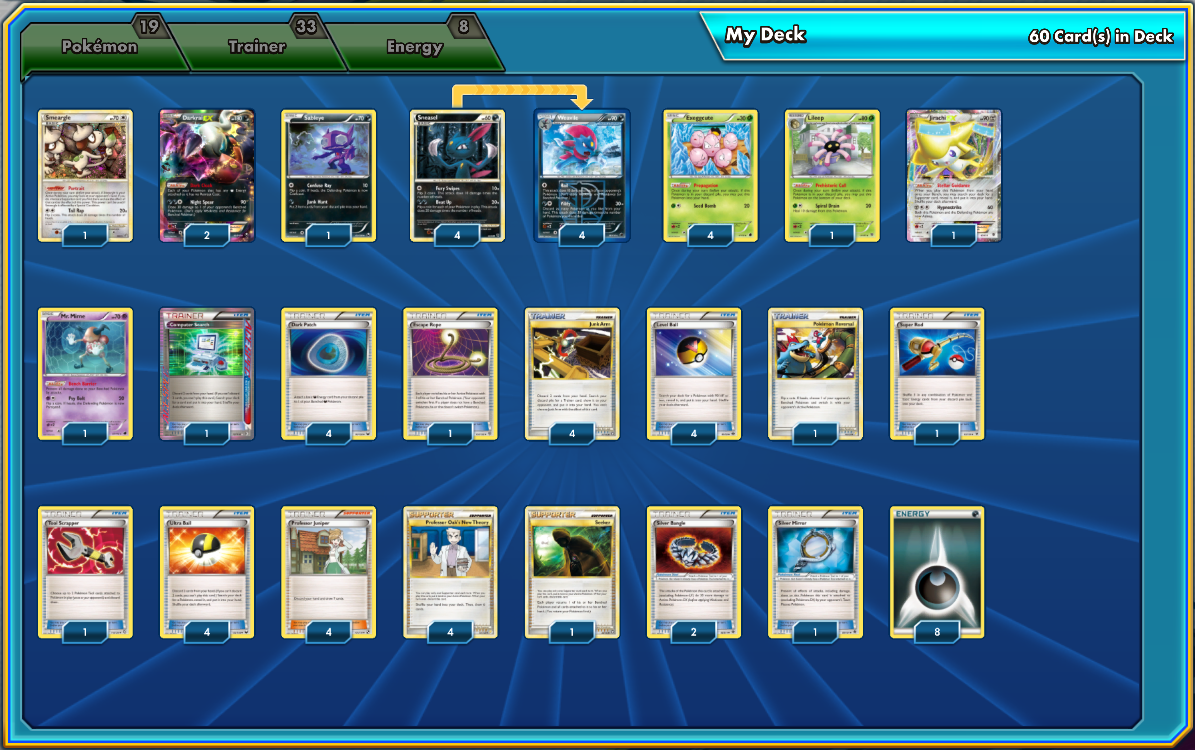
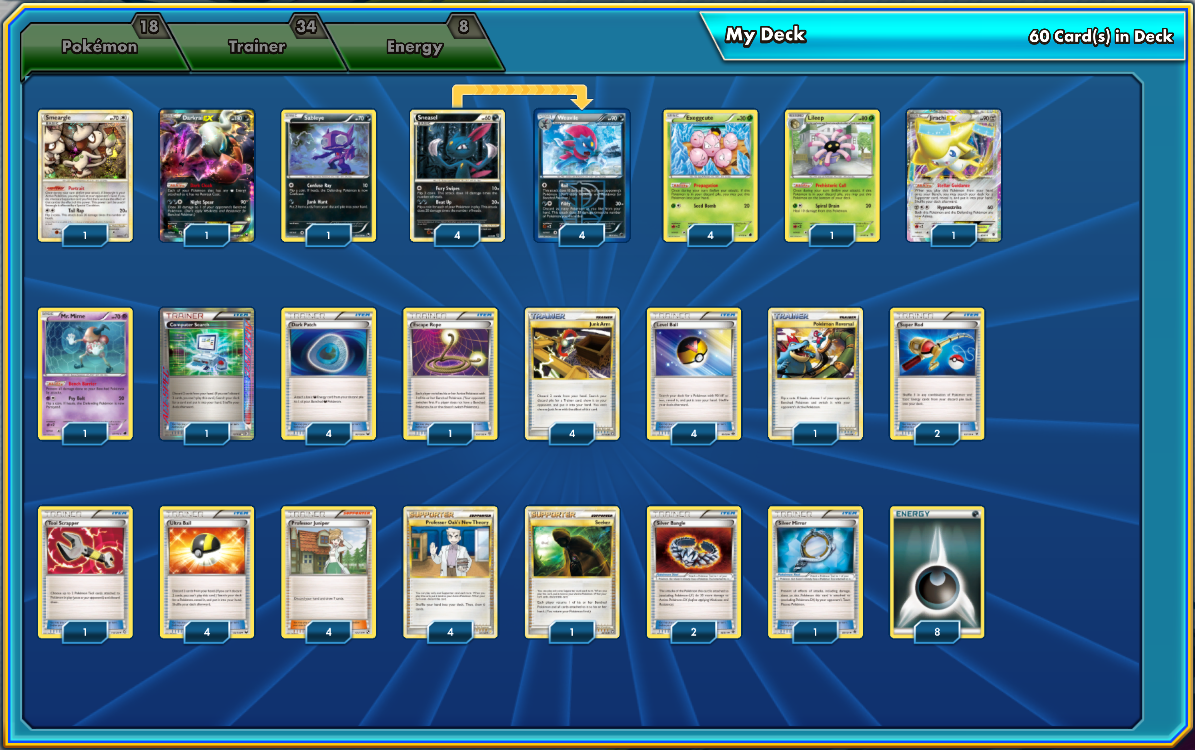
Site updated: 2019-09-24 22:27:46

diff --git a/2019/09/23/weavile/index.html b/2019/09/23/weavile/index.html
@@ -112,7 +112,7 @@
 <meta property="og:image" content="https://pkmncards.com/wp-content/uploads/sivler-bangle-plasma-blast-plb-88-ptcgo-1.png">
 <meta property="og:image" content="https://pkmncards.com/wp-content/uploads/silver-mirror-plasma-blast-plb-89-ptcgo-1.png">
 <meta property="og:image" content="https://pkmncards.com/wp-content/uploads/darkness-energy-heartgold-soulsilver-hs-121-ptcgo-1.png">
-<meta property="og:updated_time" content="2019-09-24T13:34:36.805Z">
+<meta property="og:updated_time" content="2019-09-24T14:27:22.037Z">
 <meta name="twitter:card" content="summary">
 <meta name="twitter:title" content="PTCGO-Legacy卡组介绍——扭蛋">
 <meta name="twitter:description" content="卡组预览">
@@ -388,9 +388,9 @@
 <blockquote>
 <p>整体强度：★★★★★<br>成型速度：★★★★<br>稳定程度：★★★★<br>操作难度：★★★★</p>
 </blockquote>
-<h1 id="卡组思路"><a href="#卡组思路" class="headerlink" title="卡组思路"></a>卡组思路</h1><p>开局运用ultra ball、junk arm等尽快把蛋蛋弃到弃牌堆，方便使用需要弃置手牌时减少损耗；<br>利用达克莱伊EX的特性，用dark patch给后场玛狃拉充能后可换到前场；<br>运用玛狃拉的二技能弃置4蛋蛋+1化石+silver bangle达成180击杀线；<br>偶尔可用勾魂眼回收item继续发展。</p>
+<h1 id="卡组思路"><a href="#卡组思路" class="headerlink" title="卡组思路"></a>卡组思路</h1><p>开局运用ultra ball、junk arm等尽快把蛋蛋弃到弃牌堆，方便使用需要弃置手牌时减少损耗；<br>运用玛狃拉的二技能弃置4蛋蛋+1化石+silver bangle达成180击杀线；<br>偶尔可用勾魂眼回收item继续发展。</p>
 <h1 id="卡牌详解"><a href="#卡牌详解" class="headerlink" title="卡牌详解"></a>卡牌详解</h1><h2 id="Pokemon"><a href="#Pokemon" class="headerlink" title="Pokemon"></a>Pokemon</h2><h3 id="Smeargle"><a href="#Smeargle" class="headerlink" title="Smeargle"></a>Smeargle</h3><blockquote>
-<p><img src="https://pkmncards.com/wp-content/uploads/smeargle-undaunted-ud-8-ptcgo-1.png" width="35%" height="35%"><br>由于需要进化和尽快把蛋蛋送入弃牌堆，可用图图犬的poke-power加速滤牌，利用达克莱伊EX特性可使用poke-power后撤退输出。</p>
+<p><img src="https://pkmncards.com/wp-content/uploads/smeargle-undaunted-ud-8-ptcgo-1.png" width="35%" height="35%"><br>由于需要进化和尽快把蛋蛋送入弃牌堆，可用图图犬的poke-power加速滤抽。</p>
 </blockquote>
 <h3 id="Darkrai-EX"><a href="#Darkrai-EX" class="headerlink" title="Darkrai-EX"></a>Darkrai-EX</h3><blockquote>
 <p><img src="https://pkmncards.com/wp-content/uploads/darkrai-ex-dark-explorers-dex-63-ptcgo-1.png" width="35%" height="35%"><br>利用达克莱伊EX的特性免费撤退，可配合只能贴给后场的dark patch。</p>
@@ -402,7 +402,7 @@
 <p><img src="https://pkmncards.com/wp-content/uploads/sneasel-undaunted-ud-68-ptcgo-1.png" width="35%" height="35%"><br>无撤退费用方便前期。</p>
 </blockquote>
 <h3 id="Weavile"><a href="#Weavile" class="headerlink" title="Weavile"></a>Weavile</h3><blockquote>
-<p><img src="https://pkmncards.com/wp-content/uploads/weavile-plasma-freeze-plf-66-ptcgo-1.png" width="35%" height="35%"><br>主攻击手，使用2技能弃置4蛋蛋+1化石打输出，对EX可装上silver bangle，必要时也可弃置多余的达克莱伊EX、基拉祈EX等增加伤害。</p>
+<p><img src="https://pkmncards.com/wp-content/uploads/weavile-plasma-freeze-plf-66-ptcgo-1.png" width="35%" height="35%"><br>主攻击手，使用2技能弃置4蛋蛋+1化石打输出，对EX可装上silver bangle，必要时也可弃置其他多余Pokemon增加伤害。</p>
 </blockquote>
 <h3 id="Exeggcute"><a href="#Exeggcute" class="headerlink" title="Exeggcute"></a>Exeggcute</h3><blockquote>
 <p><img src="https://pkmncards.com/wp-content/uploads/exeggcute-plasma-freeze-plf-4-ptcgo-1.png" width="35%" height="35%"><br>特性可从弃牌堆回到手牌，用于玛狃拉攻击和ultra ball、junk arm和computer search的消耗。</p>
@@ -417,7 +417,7 @@
 <p><img src="https://pkmncards.com/wp-content/uploads/mr.-mime-plasma-freeze-plf-47-ptcgo-1.png" width="35%" height="35%"><br>此卡组初除达克莱伊EX外均为100HP以下的Pokemon，面对能打后场的敌人时需要保护。</p>
 </blockquote>
 <h2 id="Trainer"><a href="#Trainer" class="headerlink" title="Trainer"></a>Trainer</h2><h3 id="Computer-Search"><a href="#Computer-Search" class="headerlink" title="Computer Search"></a>Computer Search</h3><blockquote>
-<p><img src="https://pkmncards.com/wp-content/uploads/computer-search-boundaries-crossed-bcr-137-ptcgo-1.png" width="35%" height="35%"><br>最强检索牌，弃置2张手牌可从卡组搜寻任意一张牌，利用蛋蛋可0损耗检索，当此卡与至少2蛋蛋在弃牌堆时，junk arm将成为几乎上天入地无所不能的牌。</p>
+<p><img src="https://pkmncards.com/wp-content/uploads/computer-search-boundaries-crossed-bcr-137-ptcgo-1.png" width="35%" height="35%"><br>最强检索牌，弃置2张手牌可从卡组搜寻任意一张牌，利用蛋蛋可0损耗检索，当此卡与至少2蛋蛋在弃牌堆时，junk arm将几乎无所不能。</p>
 </blockquote>
 <h3 id="Dark-Patch"><a href="#Dark-Patch" class="headerlink" title="Dark Patch"></a>Dark Patch</h3><blockquote>
 <p><img src="https://pkmncards.com/wp-content/uploads/dark-patch-dark-explorers-dex-93-ptcgo-1.png" width="35%" height="35%"><br>加速充能和回收能量的重要手段，前期可有意弃置个别能量到弃牌堆，以便加速充能。</p>
@@ -435,7 +435,7 @@
 <p><img src="https://pkmncards.com/wp-content/uploads/pokemon-reversal-heartgold-soulsilver-hs-99-ptcgo-1.png" width="35%" height="35%"><br>偶尔抓取对方关键后场Pokemon，破坏节奏。</p>
 </blockquote>
 <h3 id="Super-Rod"><a href="#Super-Rod" class="headerlink" title="Super Rod"></a>Super Rod</h3><blockquote>
-<p><img src="https://pkmncards.com/wp-content/uploads/super-rod-noble-victories-nvi-95-ptcgo-1.png" width="35%" height="35%"><br>用于回收玛狃拉或为提伤害弃置的其他需要Pokemon。</p>
+<p><img src="https://pkmncards.com/wp-content/uploads/super-rod-noble-victories-nvi-95-ptcgo-1.png" width="35%" height="35%"><br>用于回收玛狃拉或弃置的Pokemon继续输出，此卡组检索能力极强，也可防止抽空卡组。</p>
 </blockquote>
 <h3 id="Tool-Scrapper"><a href="#Tool-Scrapper" class="headerlink" title="Tool Scrapper"></a>Tool Scrapper</h3><blockquote>
 <p><img src="https://pkmncards.com/wp-content/uploads/tool-scrapper-dragons-exalted-drx-116-ptcgo-1.png" width="35%" height="35%"><br>一般用于拆除silver mirror或对方灰尘山的tool，防止特性被封锁或攻击被无效。</p>
@@ -461,7 +461,7 @@
 <h2 id="Energy"><a href="#Energy" class="headerlink" title="Energy"></a>Energy</h2><h3 id="Dark-Energy"><a href="#Dark-Energy" class="headerlink" title="Dark Energy"></a>Dark Energy</h3><blockquote>
 <p><img src="https://pkmncards.com/wp-content/uploads/darkness-energy-heartgold-soulsilver-hs-121-ptcgo-1.png" width="35%" height="35%"><br>8基本恶能量，对应4玛狃拉*2。</p>
 </blockquote>
-
+<h1 id="卡组代码"><a href="#卡组代码" class="headerlink" title="卡组代码"></a>卡组代码</h1><figure class="highlight plain"><table><tr><td class="gutter"><pre><span class="line">1</span><br><span class="line">2</span><br><span class="line">3</span><br><span class="line">4</span><br><span class="line">5</span><br><span class="line">6</span><br><span class="line">7</span><br><span class="line">8</span><br><span class="line">9</span><br><span class="line">10</span><br><span class="line">11</span><br><span class="line">12</span><br><span class="line">13</span><br><span class="line">14</span><br><span class="line">15</span><br><span class="line">16</span><br><span class="line">17</span><br><span class="line">18</span><br><span class="line">19</span><br><span class="line">20</span><br><span class="line">21</span><br><span class="line">22</span><br><span class="line">23</span><br><span class="line">24</span><br><span class="line">25</span><br><span class="line">26</span><br><span class="line">27</span><br><span class="line">28</span><br><span class="line">29</span><br><span class="line">30</span><br><span class="line">31</span><br><span class="line">32</span><br><span class="line">33</span><br><span class="line">34</span><br><span class="line">35</span><br><span class="line">36</span><br><span class="line">37</span><br><span class="line">38</span><br></pre></td><td class="code"><pre><span class="line">****** Pokémon Trading Card Game Deck List ******</span><br><span class="line"></span><br><span class="line">##Pokémon - 18</span><br><span class="line"></span><br><span class="line">* 1 Smeargle UD 8</span><br><span class="line">* 1 Darkrai-EX DEX 63</span><br><span class="line">* 1 Sableye DEX 62</span><br><span class="line">* 4 Sneasel UD 68</span><br><span class="line">* 4 Weavile PLF 66</span><br><span class="line">* 4 Exeggcute PLF 4</span><br><span class="line">* 1 Lileep PLB 3</span><br><span class="line">* 1 Jirachi-EX PLB 60</span><br><span class="line">* 1 Mr. Mime PLF 47</span><br><span class="line"></span><br><span class="line">##Trainer Cards - 34</span><br><span class="line"></span><br><span class="line">* 1 Computer Search BCR 137</span><br><span class="line">* 2 Silver Bangle PLB 88</span><br><span class="line">* 4 Ultra Ball DEX 102</span><br><span class="line">* 4 Professor Oak&apos;s New Theory HS 101</span><br><span class="line">* 2 Super Rod NVI 95</span><br><span class="line">* 1 Escape Rope PLS 120</span><br><span class="line">* 1 Pokémon Reversal HS 99</span><br><span class="line">* 1 Seeker TM 88</span><br><span class="line">* 4 Dark Patch DEX 93</span><br><span class="line">* 4 Professor Juniper BLW 101</span><br><span class="line">* 1 Tool Scrapper DRX 116</span><br><span class="line">* 4 Level Ball NXD 89</span><br><span class="line">* 4 Junk Arm TM 87</span><br><span class="line">* 1 Silver Mirror PLB 89</span><br><span class="line"></span><br><span class="line">##Energy - 8</span><br><span class="line"></span><br><span class="line">* 8 Darkness Energy Energy 7</span><br><span class="line"></span><br><span class="line">Total Cards - 60</span><br><span class="line"></span><br><span class="line">****** Deck List Generated by the Pokémon TCG Online www.pokemon.com/TCGO ******</span><br></pre></td></tr></table></figure>
       
     </div>
     
@@ -721,7 +721,7 @@
             
 
             
-              <div class="post-toc-content"><ol class="nav"><li class="nav-item nav-level-1"><a class="nav-link" href="#卡组预览"><span class="nav-number">1.</span> <span class="nav-text">卡组预览</span></a></li><li class="nav-item nav-level-1"><a class="nav-link" href="#卡组评价"><span class="nav-number">2.</span> <span class="nav-text">卡组评价</span></a></li><li class="nav-item nav-level-1"><a class="nav-link" href="#卡组思路"><span class="nav-number">3.</span> <span class="nav-text">卡组思路</span></a></li><li class="nav-item nav-level-1"><a class="nav-link" href="#卡牌详解"><span class="nav-number">4.</span> <span class="nav-text">卡牌详解</span></a><ol class="nav-child"><li class="nav-item nav-level-2"><a class="nav-link" href="#Pokemon"><span class="nav-number">4.1.</span> <span class="nav-text">Pokemon</span></a><ol class="nav-child"><li class="nav-item nav-level-3"><a class="nav-link" href="#Smeargle"><span class="nav-number">4.1.1.</span> <span class="nav-text">Smeargle</span></a></li><li class="nav-item nav-level-3"><a class="nav-link" href="#Darkrai-EX"><span class="nav-number">4.1.2.</span> <span class="nav-text">Darkrai-EX</span></a></li><li class="nav-item nav-level-3"><a class="nav-link" href="#Sableye"><span class="nav-number">4.1.3.</span> <span class="nav-text">Sableye</span></a></li><li class="nav-item nav-level-3"><a class="nav-link" href="#Sneasel"><span class="nav-number">4.1.4.</span> <span class="nav-text">Sneasel</span></a></li><li class="nav-item nav-level-3"><a class="nav-link" href="#Weavile"><span class="nav-number">4.1.5.</span> <span class="nav-text">Weavile</span></a></li><li class="nav-item nav-level-3"><a class="nav-link" href="#Exeggcute"><span class="nav-number">4.1.6.</span> <span class="nav-text">Exeggcute</span></a></li><li class="nav-item nav-level-3"><a class="nav-link" href="#Lileep"><span class="nav-number">4.1.7.</span> <span class="nav-text">Lileep</span></a></li><li class="nav-item nav-level-3"><a class="nav-link" href="#Jirachi-EX"><span class="nav-number">4.1.8.</span> <span class="nav-text">Jirachi-EX</span></a></li><li class="nav-item nav-level-3"><a class="nav-link" href="#Mr-Mime"><span class="nav-number">4.1.9.</span> <span class="nav-text">Mr. Mime</span></a></li></ol></li><li class="nav-item nav-level-2"><a class="nav-link" href="#Trainer"><span class="nav-number">4.2.</span> <span class="nav-text">Trainer</span></a><ol class="nav-child"><li class="nav-item nav-level-3"><a class="nav-link" href="#Computer-Search"><span class="nav-number">4.2.1.</span> <span class="nav-text">Computer Search</span></a></li><li class="nav-item nav-level-3"><a class="nav-link" href="#Dark-Patch"><span class="nav-number">4.2.2.</span> <span class="nav-text">Dark Patch</span></a></li><li class="nav-item nav-level-3"><a class="nav-link" href="#Escape-Rope"><span class="nav-number">4.2.3.</span> <span class="nav-text">Escape Rope</span></a></li><li class="nav-item nav-level-3"><a class="nav-link" href="#Junk-Arm"><span class="nav-number">4.2.4.</span> <span class="nav-text">Junk Arm</span></a></li><li class="nav-item nav-level-3"><a class="nav-link" href="#Level-Ball"><span class="nav-number">4.2.5.</span> <span class="nav-text">Level Ball</span></a></li><li class="nav-item nav-level-3"><a class="nav-link" href="#Pokemon-Reversal"><span class="nav-number">4.2.6.</span> <span class="nav-text">Pokémon Reversal</span></a></li><li class="nav-item nav-level-3"><a class="nav-link" href="#Super-Rod"><span class="nav-number">4.2.7.</span> <span class="nav-text">Super Rod</span></a></li><li class="nav-item nav-level-3"><a class="nav-link" href="#Tool-Scrapper"><span class="nav-number">4.2.8.</span> <span class="nav-text">Tool Scrapper</span></a></li><li class="nav-item nav-level-3"><a class="nav-link" href="#Ultra-Ball"><span class="nav-number">4.2.9.</span> <span class="nav-text">Ultra Ball</span></a></li><li class="nav-item nav-level-3"><a class="nav-link" href="#Professor-Juniper"><span class="nav-number">4.2.10.</span> <span class="nav-text">Professor Juniper</span></a></li><li class="nav-item nav-level-3"><a class="nav-link" href="#Professor-Oak’s-New-Theory"><span class="nav-number">4.2.11.</span> <span class="nav-text">Professor Oak’s New Theory</span></a></li><li class="nav-item nav-level-3"><a class="nav-link" href="#Seeker"><span class="nav-number">4.2.12.</span> <span class="nav-text">Seeker</span></a></li><li class="nav-item nav-level-3"><a class="nav-link" href="#Silver-Bangle"><span class="nav-number">4.2.13.</span> <span class="nav-text">Silver Bangle</span></a></li><li class="nav-item nav-level-3"><a class="nav-link" href="#Silver-Mirror"><span class="nav-number">4.2.14.</span> <span class="nav-text">Silver Mirror</span></a></li></ol></li><li class="nav-item nav-level-2"><a class="nav-link" href="#Energy"><span class="nav-number">4.3.</span> <span class="nav-text">Energy</span></a><ol class="nav-child"><li class="nav-item nav-level-3"><a class="nav-link" href="#Dark-Energy"><span class="nav-number">4.3.1.</span> <span class="nav-text">Dark Energy</span></a></li></ol></li></ol></li></ol></div>
+              <div class="post-toc-content"><ol class="nav"><li class="nav-item nav-level-1"><a class="nav-link" href="#卡组预览"><span class="nav-number">1.</span> <span class="nav-text">卡组预览</span></a></li><li class="nav-item nav-level-1"><a class="nav-link" href="#卡组评价"><span class="nav-number">2.</span> <span class="nav-text">卡组评价</span></a></li><li class="nav-item nav-level-1"><a class="nav-link" href="#卡组思路"><span class="nav-number">3.</span> <span class="nav-text">卡组思路</span></a></li><li class="nav-item nav-level-1"><a class="nav-link" href="#卡牌详解"><span class="nav-number">4.</span> <span class="nav-text">卡牌详解</span></a><ol class="nav-child"><li class="nav-item nav-level-2"><a class="nav-link" href="#Pokemon"><span class="nav-number">4.1.</span> <span class="nav-text">Pokemon</span></a><ol class="nav-child"><li class="nav-item nav-level-3"><a class="nav-link" href="#Smeargle"><span class="nav-number">4.1.1.</span> <span class="nav-text">Smeargle</span></a></li><li class="nav-item nav-level-3"><a class="nav-link" href="#Darkrai-EX"><span class="nav-number">4.1.2.</span> <span class="nav-text">Darkrai-EX</span></a></li><li class="nav-item nav-level-3"><a class="nav-link" href="#Sableye"><span class="nav-number">4.1.3.</span> <span class="nav-text">Sableye</span></a></li><li class="nav-item nav-level-3"><a class="nav-link" href="#Sneasel"><span class="nav-number">4.1.4.</span> <span class="nav-text">Sneasel</span></a></li><li class="nav-item nav-level-3"><a class="nav-link" href="#Weavile"><span class="nav-number">4.1.5.</span> <span class="nav-text">Weavile</span></a></li><li class="nav-item nav-level-3"><a class="nav-link" href="#Exeggcute"><span class="nav-number">4.1.6.</span> <span class="nav-text">Exeggcute</span></a></li><li class="nav-item nav-level-3"><a class="nav-link" href="#Lileep"><span class="nav-number">4.1.7.</span> <span class="nav-text">Lileep</span></a></li><li class="nav-item nav-level-3"><a class="nav-link" href="#Jirachi-EX"><span class="nav-number">4.1.8.</span> <span class="nav-text">Jirachi-EX</span></a></li><li class="nav-item nav-level-3"><a class="nav-link" href="#Mr-Mime"><span class="nav-number">4.1.9.</span> <span class="nav-text">Mr. Mime</span></a></li></ol></li><li class="nav-item nav-level-2"><a class="nav-link" href="#Trainer"><span class="nav-number">4.2.</span> <span class="nav-text">Trainer</span></a><ol class="nav-child"><li class="nav-item nav-level-3"><a class="nav-link" href="#Computer-Search"><span class="nav-number">4.2.1.</span> <span class="nav-text">Computer Search</span></a></li><li class="nav-item nav-level-3"><a class="nav-link" href="#Dark-Patch"><span class="nav-number">4.2.2.</span> <span class="nav-text">Dark Patch</span></a></li><li class="nav-item nav-level-3"><a class="nav-link" href="#Escape-Rope"><span class="nav-number">4.2.3.</span> <span class="nav-text">Escape Rope</span></a></li><li class="nav-item nav-level-3"><a class="nav-link" href="#Junk-Arm"><span class="nav-number">4.2.4.</span> <span class="nav-text">Junk Arm</span></a></li><li class="nav-item nav-level-3"><a class="nav-link" href="#Level-Ball"><span class="nav-number">4.2.5.</span> <span class="nav-text">Level Ball</span></a></li><li class="nav-item nav-level-3"><a class="nav-link" href="#Pokemon-Reversal"><span class="nav-number">4.2.6.</span> <span class="nav-text">Pokémon Reversal</span></a></li><li class="nav-item nav-level-3"><a class="nav-link" href="#Super-Rod"><span class="nav-number">4.2.7.</span> <span class="nav-text">Super Rod</span></a></li><li class="nav-item nav-level-3"><a class="nav-link" href="#Tool-Scrapper"><span class="nav-number">4.2.8.</span> <span class="nav-text">Tool Scrapper</span></a></li><li class="nav-item nav-level-3"><a class="nav-link" href="#Ultra-Ball"><span class="nav-number">4.2.9.</span> <span class="nav-text">Ultra Ball</span></a></li><li class="nav-item nav-level-3"><a class="nav-link" href="#Professor-Juniper"><span class="nav-number">4.2.10.</span> <span class="nav-text">Professor Juniper</span></a></li><li class="nav-item nav-level-3"><a class="nav-link" href="#Professor-Oak’s-New-Theory"><span class="nav-number">4.2.11.</span> <span class="nav-text">Professor Oak’s New Theory</span></a></li><li class="nav-item nav-level-3"><a class="nav-link" href="#Seeker"><span class="nav-number">4.2.12.</span> <span class="nav-text">Seeker</span></a></li><li class="nav-item nav-level-3"><a class="nav-link" href="#Silver-Bangle"><span class="nav-number">4.2.13.</span> <span class="nav-text">Silver Bangle</span></a></li><li class="nav-item nav-level-3"><a class="nav-link" href="#Silver-Mirror"><span class="nav-number">4.2.14.</span> <span class="nav-text">Silver Mirror</span></a></li></ol></li><li class="nav-item nav-level-2"><a class="nav-link" href="#Energy"><span class="nav-number">4.3.</span> <span class="nav-text">Energy</span></a><ol class="nav-child"><li class="nav-item nav-level-3"><a class="nav-link" href="#Dark-Energy"><span class="nav-number">4.3.1.</span> <span class="nav-text">Dark Energy</span></a></li></ol></li></ol></li><li class="nav-item nav-level-1"><a class="nav-link" href="#卡组代码"><span class="nav-number">5.</span> <span class="nav-text">卡组代码</span></a></li></ol></div>
             
 
           </div>

diff --git a/css/main.css b/css/main.css
@@ -1822,7 +1822,7 @@ pre .javascript .function {
   width: 4px;
   height: 4px;
   border-radius: 50%;
-  background: #c4ba1d;
+  background: #ffffab;
 }
 .links-of-blogroll {
   font-size: 13px;
